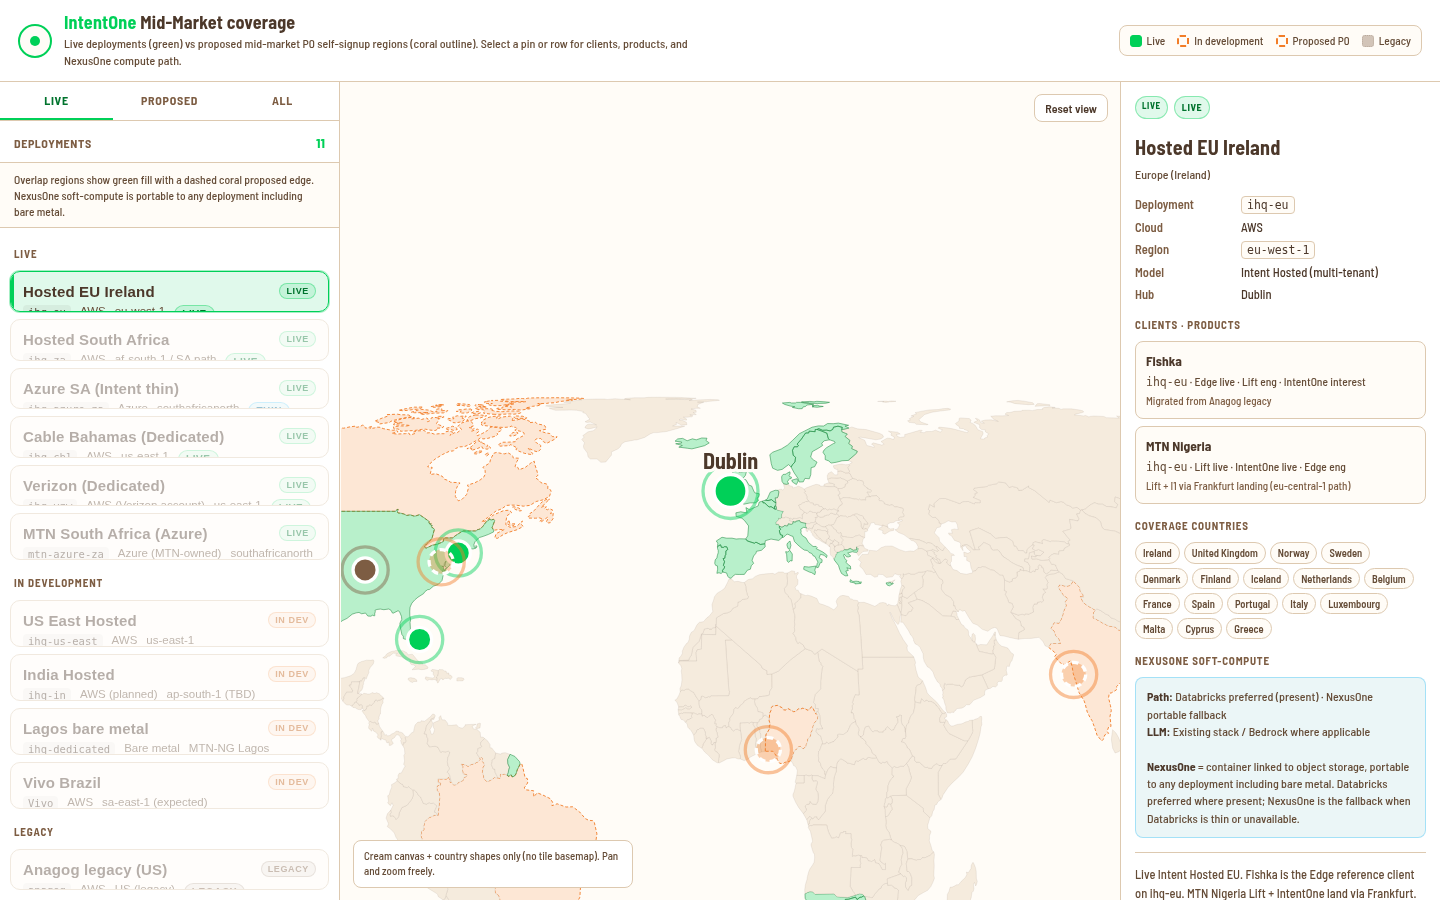
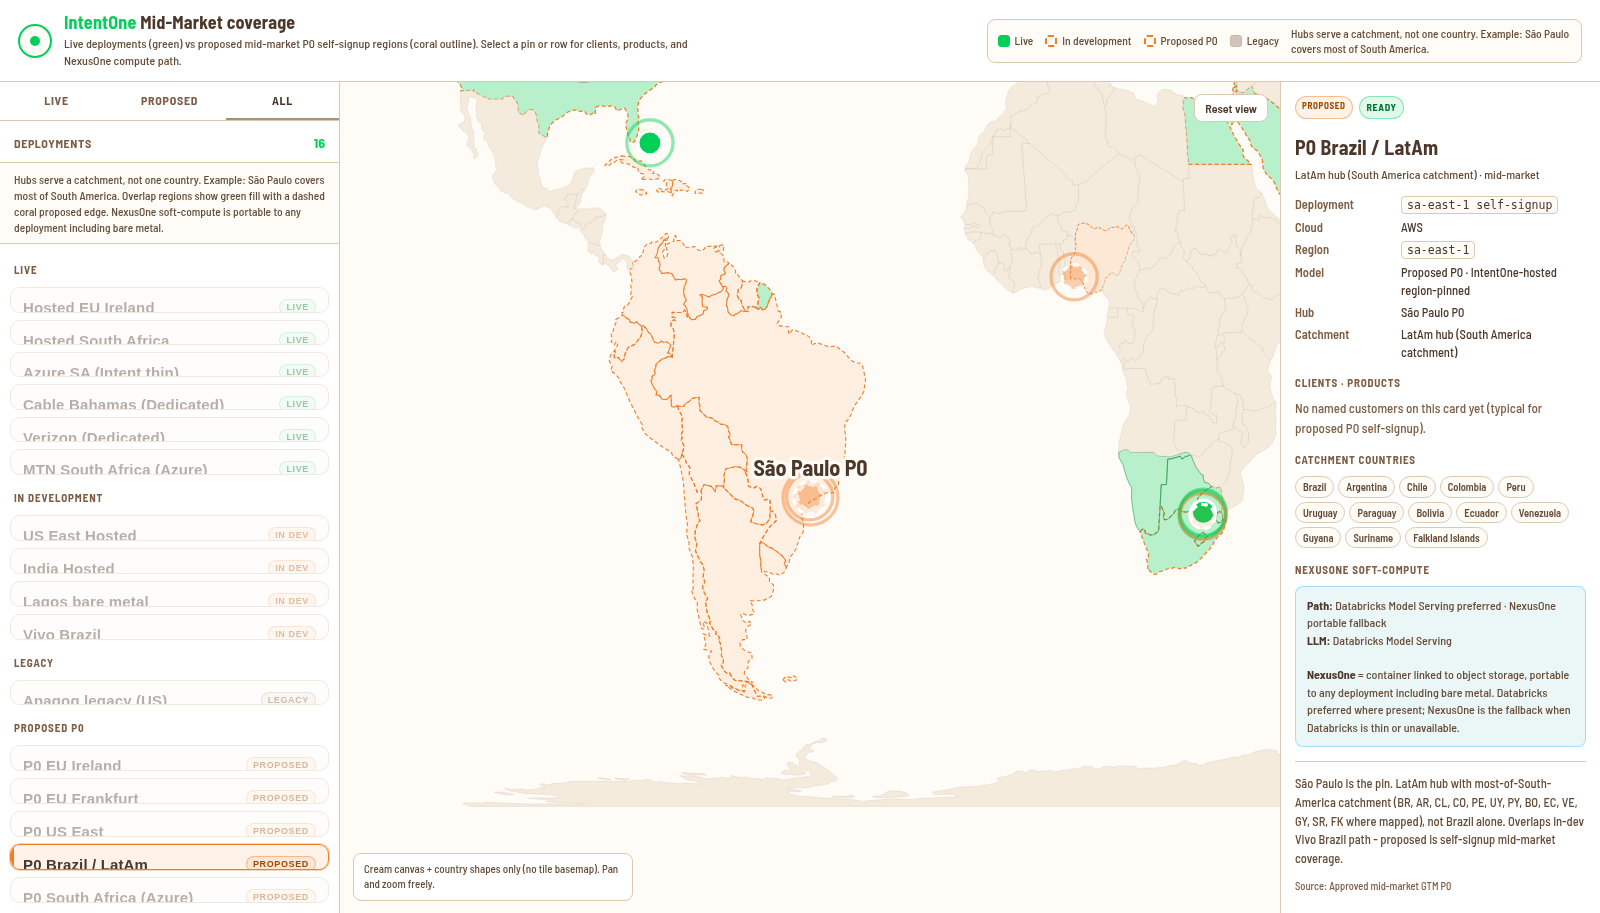
Widen hub catchments (São Paulo = South America)

diff --git a/index.html b/index.html
@@ -407,6 +407,7 @@
           <span class="legend-item"><span class="swatch indev"></span> In development</span>
           <span class="legend-item"><span class="swatch proposed"></span> Proposed P0</span>
           <span class="legend-item"><span class="swatch legacy"></span> Legacy</span>
+          <span class="legend-item" style="max-width:280px;white-space:normal;line-height:1.3">Hubs serve a catchment, not one country. Example: São Paulo covers most of South America.</span>
         </div>
       </div>
     </header>
@@ -422,7 +423,7 @@
         <span class="count" id="list-count">0</span>
       </div>
       <div class="sidebar-note">
-        Overlap regions show green fill with a dashed coral proposed edge. NexusOne soft-compute is portable to any deployment including bare metal.
+        Hubs serve a catchment, not one country. Example: São Paulo covers most of South America. Overlap regions show green fill with a dashed coral proposed edge. NexusOne soft-compute is portable to any deployment including bare metal.
       </div>
       <div class="deployments" id="deployments" role="listbox" aria-label="Deployments"></div>
     </aside>
@@ -457,7 +458,7 @@
     "096":"BN","100":"BG","104":"MM","108":"BI","112":"BY","116":"KH","120":"CM","124":"CA","132":"CV","140":"CF",
     "144":"LK","148":"TD","152":"CL","156":"CN","158":"TW","170":"CO","178":"CG","180":"CD","188":"CR","191":"HR",
     "192":"CU","196":"CY","203":"CZ","204":"BJ","208":"DK","214":"DO","218":"EC","222":"SV","226":"GQ","231":"ET",
-    "232":"ER","233":"EE","242":"FJ","246":"FI","250":"FR","258":"PF","262":"DJ","266":"GA","268":"GE","270":"GM",
+    "232":"ER","233":"EE","238":"FK","242":"FJ","246":"FI","250":"FR","258":"PF","262":"DJ","266":"GA","268":"GE","270":"GM",
     "275":"PS","276":"DE","288":"GH","300":"GR","304":"GL","320":"GT","324":"GN","328":"GY","332":"HT","340":"HN",
     "348":"HU","352":"IS","356":"IN","360":"ID","364":"IR","368":"IQ","372":"IE","376":"IL","380":"IT","384":"CI",
     "388":"JM","392":"JP","398":"KZ","400":"JO","404":"KE","408":"KP","410":"KR","414":"KW","417":"KG","418":"LA",
@@ -481,21 +482,22 @@
       shortName: "ihq-eu",
       cloud: "AWS",
       regionCode: "eu-west-1",
-      regionLabel: "Europe (Ireland)",
+      regionLabel: "EU/EMEA (Ireland hub)",
       model: "Intent Hosted (multi-tenant)",
       computePath: "Databricks preferred (present) · NexusOne portable fallback",
       llmPath: "Existing stack / Bedrock where applicable",
       status: "Live",
       hub: { lat: 53.3498, lng: -6.2603, label: "Dublin" },
       secondaryHubs: [{ lat: 50.1109, lng: 8.6821, label: "Frankfurt landing" }],
-      countries: ["IE","GB","NO","SE","DK","FI","IS","NL","BE","FR","ES","PT","IT","LU","MT","CY","GR"],
-      countryNames: ["Ireland","United Kingdom","Norway","Sweden","Denmark","Finland","Iceland","Netherlands","Belgium","France","Spain","Portugal","Italy","Luxembourg","Malta","Cyprus","Greece"],
+      catchmentLabel: "EU/EMEA hub (Ireland catchment)",
+      countries: ["IE","GB","NO","SE","DK","FI","IS","NL","BE","FR","ES","PT","IT","LU","MT","CY","GR","AE","IL","TR","EG","SA","QA","BH","KW","OM","JO","LB"],
+      countryNames: ["Ireland","United Kingdom","Norway","Sweden","Denmark","Finland","Iceland","Netherlands","Belgium","France","Spain","Portugal","Italy","Luxembourg","Malta","Cyprus","Greece","United Arab Emirates","Israel","Turkey","Egypt","Saudi Arabia","Qatar","Bahrain","Kuwait","Oman","Jordan","Lebanon"],
       clients: [
         { name: "Fishka", deploymentId: "ihq-eu", products: "Edge live · Lift eng · IntentOne interest", note: "Migrated from Anagog legacy" },
         { name: "MTN Nigeria", deploymentId: "ihq-eu", products: "Lift live · IntentOne live · Edge eng", note: "Lift + I1 via Frankfurt landing (eu-central-1 path)" }
       ],
       overlapProposedId: "p0-eu-ireland",
-      notes: "Live Intent Hosted EU. Fishka is the Edge reference client on ihq-eu. MTN Nigeria Lift + IntentOne land via Frankfurt. Proposed mid-market P0 expands the same Ireland region for self-signup.",
+      notes: "Live Intent Hosted EU Ireland hub with broader EU/EMEA catchment (not Ireland-only). Fishka is the Edge reference client on ihq-eu. MTN Nigeria Lift + IntentOne land via Frankfurt. DACH/CEE preferring DE residency map to Frankfurt. Proposed mid-market P0 expands the same Ireland catchment for self-signup.",
       source: "Customer Deployment Register · environments.md"
     },
     {
@@ -537,7 +539,8 @@
       countryNames: ["South Africa"],
       clients: [],
       overlapProposedId: "p0-south-africa",
-      notes: "Thin Azure SA footprint with no strong customer anchor. Distinct from Hosted ZA (ihq-za) and MTN-owned Azure (mtn-azure-za).",
+      catchmentLabel: "Azure SA hub (South Africa)",
+      notes: "Thin Azure SA footprint with no strong customer anchor. Primary coverage South Africa; nearby SADC soft/best-effort only. Distinct from Hosted ZA (ihq-za) and MTN-owned Azure (mtn-azure-za).",
       source: "environments.md"
     },
     {
@@ -641,14 +644,15 @@
       llmPath: "Bedrock / stack-local",
       status: "In development",
       hub: { lat: 39.0438, lng: -77.4874, label: "N. Virginia" },
-      countries: ["US","CA"],
-      countryNames: ["United States","Canada"],
+      catchmentLabel: "US East hub (US + Canada + Caribbean)",
+      countries: ["US","CA","BS","JM","HT","CU","DO","TT","BB","PR","GD","LC","VC","KN","KY","AW","CW","DM"],
+      countryNames: ["United States","Canada","Bahamas","Jamaica","Haiti","Cuba","Dominican Republic","Trinidad and Tobago","Barbados","Puerto Rico","Grenada","Saint Lucia","Saint Vincent and the Grenadines","Saint Kitts and Nevis","Cayman Islands","Aruba","Curaçao","Dominica"],
       clients: [
         { name: "YPF", deploymentId: "ihq-us-east", products: "Edge · IntentOne interest", note: "" },
         { name: "Grab", deploymentId: "ihq-us-east", products: "Edge eng (in development)", note: "" }
       ],
       overlapProposedId: "p0-us-east",
-      notes: "US East hosted path in development. Proposed P0 US East aligns mid-market self-signup with this residency pattern.",
+      notes: "US East hosted path in development. Catchment: US + Canada + Caribbean where mapped. Proposed P0 US East aligns mid-market self-signup with this residency pattern.",
       source: "Customer Deployment Register"
     },
     {
@@ -702,19 +706,20 @@
       shortName: "Vivo",
       cloud: "AWS",
       regionCode: "sa-east-1 (expected)",
-      regionLabel: "AWS Brazil",
+      regionLabel: "LatAm hub (South America catchment)",
       model: "In development",
       computePath: "Databricks preferred when present · NexusOne portable fallback",
       llmPath: "TBD / Model Serving when region Ready",
       status: "In development",
       hub: { lat: -23.5505, lng: -46.6333, label: "São Paulo" },
-      countries: ["BR"],
-      countryNames: ["Brazil"],
+      catchmentLabel: "LatAm hub (South America catchment)",
+      countries: ["BR","AR","CL","CO","PE","UY","PY","BO","EC","VE","GY","SR","FK"],
+      countryNames: ["Brazil","Argentina","Chile","Colombia","Peru","Uruguay","Paraguay","Bolivia","Ecuador","Venezuela","Guyana","Suriname","Falkland Islands"],
       clients: [
         { name: "Vivo", deploymentId: "(none listed)", products: "Edge eng · IntentOne eng", note: "AWS Brazil eng" }
       ],
       overlapProposedId: "p0-brazil-latam",
-      notes: "In-dev Brazil client path. Proposed P0 São Paulo expands self-signup LatAm coverage around the same hub.",
+      notes: "In-dev São Paulo LatAm hub. Catchment is most of South America (not Brazil alone). Proposed P0 São Paulo is the self-signup peer on the same catchment.",
       source: "Customer Deployment Register"
     },
     {
@@ -724,17 +729,18 @@
       shortName: "eu-west-1 self-signup",
       cloud: "AWS",
       regionCode: "eu-west-1",
-      regionLabel: "Europe (Ireland) · mid-market self-signup",
+      regionLabel: "EU/EMEA (Ireland hub) · mid-market self-signup",
       model: "Proposed P0 · IntentOne-hosted region-pinned",
       computePath: "Databricks preferred (already on Hosted EU) · NexusOne portable fallback",
       llmPath: "Amazon Bedrock · Claude",
       status: "Ready",
       hub: { lat: 53.45, lng: -6.05, label: "Dublin P0" },
-      countries: ["IE","GB","NO","SE","DK","FI","IS","NL","BE","FR","ES","PT","IT","LU","MT","CY","GR"],
-      countryNames: ["Ireland","United Kingdom","Norway","Sweden","Denmark","Finland","Iceland","Netherlands","Belgium","France","Spain","Portugal","Italy","Luxembourg","Malta","Cyprus","Greece"],
+      catchmentLabel: "EU/EMEA hub (Ireland catchment)",
+      countries: ["IE","GB","NO","SE","DK","FI","IS","NL","BE","FR","ES","PT","IT","LU","MT","CY","GR","AE","IL","TR","EG","SA","QA","BH","KW","OM","JO","LB"],
+      countryNames: ["Ireland","United Kingdom","Norway","Sweden","Denmark","Finland","Iceland","Netherlands","Belgium","France","Spain","Portugal","Italy","Luxembourg","Malta","Cyprus","Greece","United Arab Emirates","Israel","Turkey","Egypt","Saudi Arabia","Qatar","Bahrain","Kuwait","Oman","Jordan","Lebanon"],
       clients: [],
       overlapLiveId: "live-ihq-eu",
-      notes: "Proposed mid-market P0 for Ireland, UK, Nordics, Benelux, and general EU English-preferred. Overlaps live Hosted EU (Fishka et al.): live clients stay on green detail; this card is the self-signup expansion path. DACH preferring DE residency should use P0 Frankfurt.",
+      notes: "Proposed mid-market P0 Ireland hub with broader EU/EMEA catchment (not Ireland-only): UK, Nordics, Benelux, Southern EU, and English-preferred Middle East. Overlaps live Hosted EU (Fishka et al.): live clients stay on green detail; this card is the self-signup expansion path. DACH/CEE preferring DE residency should use P0 Frankfurt.",
       source: "Approved mid-market GTM P0"
     },
     {
@@ -750,11 +756,12 @@
       llmPath: "Amazon Bedrock · Claude",
       status: "Ready",
       hub: { lat: 50.05, lng: 8.75, label: "Frankfurt P0" },
-      countries: ["DE","AT","CH","PL","CZ","SK","HU","RO","BG","SI","HR","EE","LV","LT"],
-      countryNames: ["Germany","Austria","Switzerland","Poland","Czechia","Slovakia","Hungary","Romania","Bulgaria","Slovenia","Croatia","Estonia","Latvia","Lithuania"],
+      catchmentLabel: "DACH + Central/Eastern EU hub",
+      countries: ["DE","AT","CH","PL","CZ","SK","HU","RO","BG","SI","HR","EE","LV","LT","UA","MD","RS","BA","ME","MK","AL"],
+      countryNames: ["Germany","Austria","Switzerland","Poland","Czechia","Slovakia","Hungary","Romania","Bulgaria","Slovenia","Croatia","Estonia","Latvia","Lithuania","Ukraine","Moldova","Serbia","Bosnia and Herzegovina","Montenegro","North Macedonia","Albania"],
       clients: [],
       overlapLiveId: "live-ihq-eu",
-      notes: "Coverage for DACH and CEE preferring DE residency. Live MTN Nigeria also uses Frankfurt landing under ihq-eu - different tenancy; proposed card is mid-market self-signup only.",
+      notes: "Frankfurt hub catchment: DACH plus nearby Central/Eastern EU. Live MTN Nigeria also uses Frankfurt landing under ihq-eu - different tenancy; proposed card is mid-market self-signup only.",
       source: "Approved mid-market GTM P0"
     },
     {
@@ -770,11 +777,12 @@
       llmPath: "Amazon Bedrock · Claude",
       status: "Ready",
       hub: { lat: 38.9, lng: -77.3, label: "N. Virginia P0" },
-      countries: ["US","CA"],
-      countryNames: ["United States","Canada"],
+      catchmentLabel: "US East hub (US + Canada + Caribbean)",
+      countries: ["US","CA","BS","JM","HT","CU","DO","TT","BB","PR","GD","LC","VC","KN","KY","AW","CW","DM"],
+      countryNames: ["United States","Canada","Bahamas","Jamaica","Haiti","Cuba","Dominican Republic","Trinidad and Tobago","Barbados","Puerto Rico","Grenada","Saint Lucia","Saint Vincent and the Grenadines","Saint Kitts and Nevis","Cayman Islands","Aruba","Curaçao","Dominica"],
       clients: [],
       overlapLiveId: "indev-ihq-us-east",
-      notes: "Default Americas mid-market until Phase 2 Canada-specific. Aligns with US East in-dev pattern and nearby Cable Bahamas dedicated. Live clients listed on their own cards; this is self-signup expansion.",
+      notes: "US East hub catchment: United States, Canada, and Caribbean where mapped. Default Americas mid-market until Phase 2 Canada-specific. Aligns with US East in-dev pattern and nearby Cable Bahamas dedicated. Live clients listed on their own cards; this is self-signup expansion.",
       source: "Approved mid-market GTM P0"
     },
     {
@@ -784,17 +792,18 @@
       shortName: "sa-east-1 self-signup",
       cloud: "AWS",
       regionCode: "sa-east-1",
-      regionLabel: "South America (São Paulo) · mid-market",
+      regionLabel: "LatAm hub (South America catchment) · mid-market",
       model: "Proposed P0 · IntentOne-hosted region-pinned",
       computePath: "Databricks Model Serving preferred · NexusOne portable fallback",
       llmPath: "Databricks Model Serving",
       status: "Ready",
       hub: { lat: -23.65, lng: -46.5, label: "São Paulo P0" },
-      countries: ["BR","MX","AR","CL","CO","PE","UY","PY","EC","VE","BO","CR","PA","GT","HN","SV","NI","DO"],
-      countryNames: ["Brazil","Mexico","Argentina","Chile","Colombia","Peru","Uruguay","Paraguay","Ecuador","Venezuela","Bolivia","Costa Rica","Panama","Guatemala","Honduras","El Salvador","Nicaragua","Dominican Republic"],
+      catchmentLabel: "LatAm hub (South America catchment)",
+      countries: ["BR","AR","CL","CO","PE","UY","PY","BO","EC","VE","GY","SR","FK"],
+      countryNames: ["Brazil","Argentina","Chile","Colombia","Peru","Uruguay","Paraguay","Bolivia","Ecuador","Venezuela","Guyana","Suriname","Falkland Islands"],
       clients: [],
       overlapLiveId: "indev-vivo-br",
-      notes: "São Paulo is the pin. Covers Brazil + broader LatAm. Overlaps in-dev Vivo Brazil path - proposed is self-signup mid-market coverage.",
+      notes: "São Paulo is the pin. LatAm hub with most-of-South-America catchment (BR, AR, CL, CO, PE, UY, PY, BO, EC, VE, GY, SR, FK where mapped), not Brazil alone. Overlaps in-dev Vivo Brazil path - proposed is self-signup mid-market coverage.",
       source: "Approved mid-market GTM P0"
     },
     {
@@ -810,11 +819,12 @@
       llmPath: "Azure OpenAI",
       status: "Ready",
       hub: { lat: -26.35, lng: 28.2, label: "JHB Azure P0" },
-      countries: ["ZA","NG","KE","GH","TZ","UG","RW","ZM","ZW","BW","NA","MZ","ET","SN","CI","CM"],
-      countryNames: ["South Africa","Nigeria","Kenya","Ghana","Tanzania","Uganda","Rwanda","Zambia","Zimbabwe","Botswana","Namibia","Mozambique","Ethiopia","Senegal","Côte d'Ivoire","Cameroon"],
+      catchmentLabel: "Azure SA hub (South Africa)",
+      countries: ["ZA"],
+      countryNames: ["South Africa"],
       clients: [],
       overlapLiveId: "live-mtn-azure-za",
-      notes: "Azure southafricanorth (not AWS Cape Town). SSA broader coverage best-effort. Live Hosted ZA, thin ihq-azure-za, and MTN Azure are green/thin peers; this card is mid-market self-signup.",
+      notes: "Azure southafricanorth (not AWS Cape Town). Primary catchment is South Africa. Soft note: nearby SADC markets (e.g. Botswana, Namibia, Eswatini, Lesotho, Mozambique, Zimbabwe, Zambia) may be served best-effort from the same hub but are not painted as full coverage. Live Hosted ZA, thin ihq-azure-za, and MTN Azure are green/thin peers; this card is mid-market self-signup.",
       source: "Approved mid-market GTM P0"
     }
   ];
@@ -945,13 +955,14 @@
         <dt>Region</dt><dd><code>${d.regionCode}</code></dd>
         <dt>Model</dt><dd>${d.model}</dd>
         <dt>Hub</dt><dd>${d.hub.label}</dd>
+        ${d.catchmentLabel ? `<dt>Catchment</dt><dd>${d.catchmentLabel}</dd>` : ""}
       </dl>
       <div class="block">
         <h3>Clients · products</h3>
         ${clientsHtml}
       </div>
       <div class="block">
-        <h3>Coverage countries</h3>
+        <h3>Catchment countries</h3>
         <div class="country-list">${countries}</div>
       </div>
       <div class="block">
@@ -1101,7 +1112,7 @@
     });
 
     try {
-      const topo = await d3.json("https://cdn.jsdelivr.net/npm/world-atlas@2/countries-110m.json");
+      const topo = await d3.json("./countries-110m.json").catch(() => d3.json("https://cdn.jsdelivr.net/npm/world-atlas@2/countries-110m.json"));
       const countries = topojson.feature(topo, topo.objects.countries);
 
       countryPaths = gCountries.selectAll("path")
